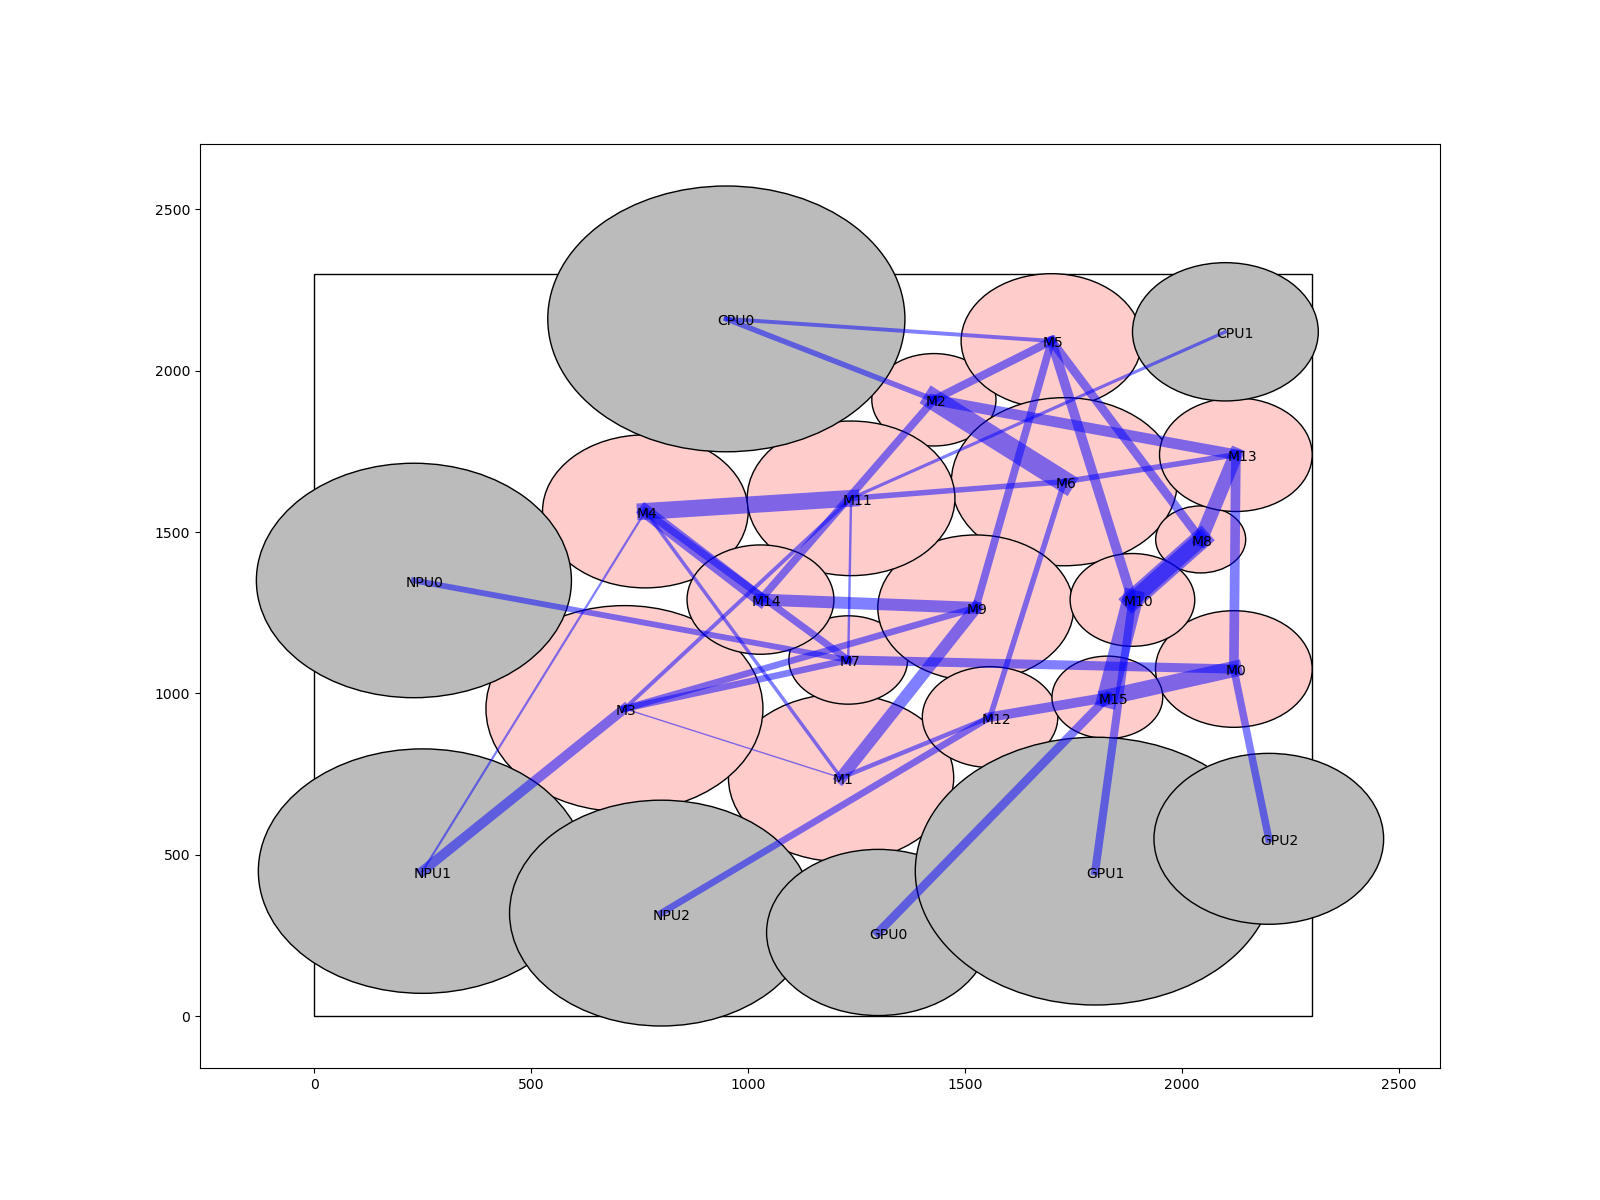
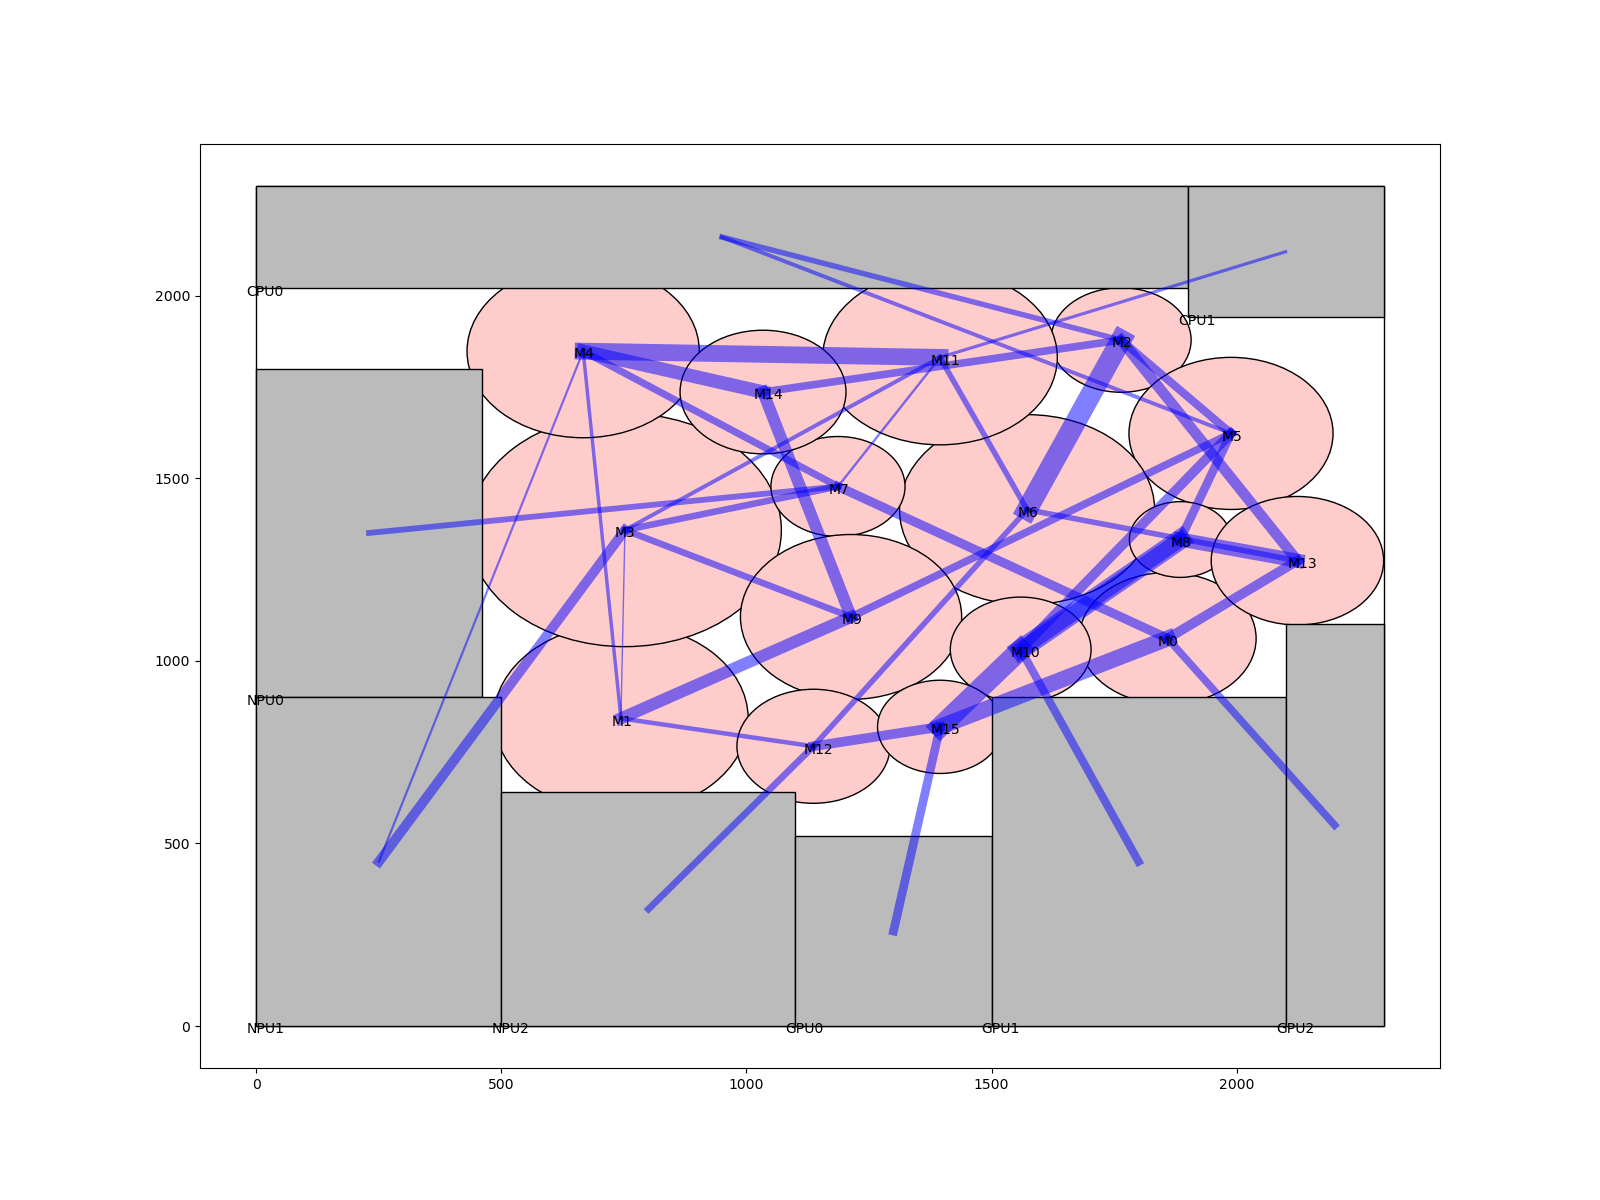
simulate fixed modules in rectangle

diff --git a/ppsolver.cpp b/ppsolver.cpp
@@ -66,9 +66,15 @@ void PPSolver::currentPosition2txt(std::string file_name) {
     ostream << DieWidth << " " << DieHeight << std::endl;
     for ( int i = 0; i < moduleNum; i++ ) {
         ostream << modules[i]->name << " ";
-        ostream << !( modules[i]->fixed ) << " ";
-        ostream << modules[i]->x << " " << modules[i]->y << " ";
-        ostream << modules[i]->radius * radiusRatio << std::endl;
+        ostream << ( ( modules[i]->fixed ) ? "FIXED" : "SOFT" ) << " ";
+        if ( modules[i]->fixed ) {
+            ostream << modules[i]->fx << " " << modules[i]->fy << " ";
+            ostream << modules[i]->fw << " " << modules[i]->fh << std::endl;
+        }
+        else {
+            ostream << modules[i]->x << " " << modules[i]->y << " ";
+            ostream << modules[i]->radius * radiusRatio << std::endl;
+        }
     }
     std::vector<PPModule*> added;
     for ( int i = 0; i < moduleNum; i++ ) {
@@ -99,6 +105,32 @@ float calcDistance(PPModule* ma, PPModule* mb) {
     return std::sqrt(std::pow(x2 - x1, 2) + std::pow(y2 - y1, 2));
 }
 
+void calcSeg2PntDist(float s1x, float s1y, float s2x, float s2y, float px, float py, float* distance, float* angle) {
+    //兩向量點乘P:p A:pt1 B:pt2 C:垂足
+    //矢量法
+    //不存在垂足C，求與A點距離
+    float APAB = ( s2x - s1x ) * ( px - s1x ) + ( s2y - s1y ) * ( py - s1y );
+    if ( APAB <= 0 ) {
+        *distance = std::sqrt(std::pow(( px - s1x ), 2) + std::pow(( py - s1y ), 2));
+        *angle = std::atan2(s1y - py, s1x - px);
+        return;
+    }
+    //不存在垂足C，求與B點距離
+    float length = std::sqrt(std::pow(( s1x - s2x ), 2) + std::pow(( s1y - s2y ), 2));
+    float AB2 = std::pow(length, 2);
+    if ( APAB >= AB2 ) {
+        *distance = std::sqrt(std::pow(( px - s2x ), 2) + std::pow(( py - s2y ), 2));
+        *angle = std::atan2(s2y - py, s2x - px);
+        return;
+    }
+    //存在垂足C 
+    float r = APAB / AB2;
+    float Cx = s1x + ( s2x - s1x ) * r;
+    float Cy = s1y + ( s2y - s1y ) * r;
+    *distance = std::sqrt(std::pow(( px - Cx ), 2) + std::pow(( py - Cy ), 2));
+    *angle = std::atan2(Cy - py, Cx - px);
+}
+
 void PPSolver::calcModuleForce() {
     PPModule* curModule;
     for ( int i = 0; i < moduleNum; i++ ) {
@@ -112,50 +144,116 @@ void PPSolver::calcModuleForce() {
         for ( int j = 0; j < curModule->connections.size(); j++ ) {
             PPModule* pullModule = curModule->connections[j]->module;
             float pullValue = curModule->connections[j]->value;
-            float x_distance = pullModule->x - curModule->x;
-            float y_distance = pullModule->y - curModule->y;
-            float angle = std::atan2(y_distance, x_distance);
-            if ( x_distance == 0 && y_distance == 0 )
-                continue;
+            float distance, x_distance, y_distance;
 
-            float curModuleRadius = curModule->radius * radiusRatio;
-            float pullModuleRadius = pullModule->radius * radiusRatio;
-            float distance = calcDistance(curModule, pullModule);
-            if ( distance <= curModuleRadius + pullModuleRadius )
-                continue;
+            if ( pullModule->fixed == true ) {
+                float fx = pullModule->fx;
+                float fy = pullModule->fy;
+                float fw = pullModule->fw;
+                float fh = pullModule->fh;
+                float d[4], a[4];
+                calcSeg2PntDist(fx, fy, fx, fy + fh, curModule->x, curModule->y, d, a);
+                calcSeg2PntDist(fx, fy + fh, fx + fw, fy + fh, curModule->x, curModule->y, d + 1, a + 1);
+                calcSeg2PntDist(fx + fw, fy, fx + fw, fy + fh, curModule->x, curModule->y, d + 2, a + 2);
+                calcSeg2PntDist(fx, fy, fx + fw, fy, curModule->x, curModule->y, d + 3, a + 3);
 
-            distance -= curModuleRadius + pullModuleRadius;
-            x_distance = distance * std::cos(angle);
-            y_distance = distance * std::sin(angle);
+                float minD = d[0], angle = a[0];
+                for ( int m = 1; m < 4; m++ )
+                    if ( d[m] < minD ) {
+                        minD = d[m];
+                        angle = a[m];
+                    }
+
+                distance = minD;
+
+                float curModuleRadius = curModule->radius * radiusRatio;
+                if ( distance <= curModuleRadius )
+                    continue;
+
+                distance -= curModuleRadius;
+                x_distance = distance * std::cos(angle);
+                y_distance = distance * std::sin(angle);
+            }
+            else {
+                x_distance = pullModule->x - curModule->x;
+                y_distance = pullModule->y - curModule->y;
+                if ( x_distance == 0 && y_distance == 0 )
+                    continue;
+
+                float angle = std::atan2(y_distance, x_distance);
+                float curModuleRadius = curModule->radius * radiusRatio;
+                float pullModuleRadius = pullModule->radius * radiusRatio;
+                float distance = calcDistance(curModule, pullModule);
+                if ( distance <= curModuleRadius + pullModuleRadius )
+                    continue;
+
+                distance -= curModuleRadius + pullModuleRadius;
+                x_distance = distance * std::cos(angle);
+                y_distance = distance * std::sin(angle);
+            }
+
             float force = distance * pullValue;
-            x_force += force * ( x_distance / distance );
-            y_force += force * ( y_distance / distance );
+            x_force += pullValue * x_distance;
+            y_force += pullValue * y_distance;
+
         }
 
         for ( int j = 0; j < moduleNum; j++ ) {
             if ( j == i )
                 continue;
             PPModule* pushModule = modules[j];
-            float x_distance = pushModule->x - curModule->x;
-            float y_distance = pushModule->y - curModule->y;
-            float angle = std::atan2(y_distance, x_distance);
-            if ( x_distance == 0 && y_distance == 0 )
-                continue;
+            float distance, x_distance, y_distance;
 
-            float curModuleRadius = curModule->radius * radiusRatio;
-            float pushModuleRadius = pushModule->radius * radiusRatio;
-            float distance = calcDistance(curModule, pushModule);
-            if ( distance >= curModuleRadius + pushModuleRadius )
-                continue;
+            if ( pushModule->fixed ) {
+                float fx = pushModule->fx;
+                float fy = pushModule->fy;
+                float fw = pushModule->fw;
+                float fh = pushModule->fh;
+                float d[4], a[4];
+                calcSeg2PntDist(fx, fy, fx, fy + fh, curModule->x, curModule->y, d, a);
+                calcSeg2PntDist(fx, fy + fh, fx + fw, fy + fh, curModule->x, curModule->y, d + 1, a + 1);
+                calcSeg2PntDist(fx + fw, fy, fx + fw, fy + fh, curModule->x, curModule->y, d + 2, a + 2);
+                calcSeg2PntDist(fx, fy, fx + fw, fy, curModule->x, curModule->y, d + 3, a + 3);
 
-            distance -= curModuleRadius + pushModuleRadius;
-            distance = -distance;
-            x_distance = distance * std::cos(angle);
-            y_distance = distance * std::sin(angle);
-            //std::cout << distance << std::endl;
+                float minD = d[0], angle = a[0];
+                for ( int m = 1; m < 4; m++ )
+                    if ( d[m] < minD ) {
+                        minD = d[m];
+                        angle = a[m];
+                    }
+
+                distance = minD;
+                float curModuleRadius = curModule->radius * radiusRatio;
+                if ( distance >= curModuleRadius )
+                    continue;
+
+                distance -= curModuleRadius;
+                distance = -distance;
+                x_distance = distance * std::cos(angle);
+                y_distance = distance * std::sin(angle);
+            }
+            else {
+                x_distance = pushModule->x - curModule->x;
+                y_distance = pushModule->y - curModule->y;
+                if ( x_distance == 0 && y_distance == 0 )
+                    continue;
+
+                float angle = std::atan2(y_distance, x_distance);
+                float curModuleRadius = curModule->radius * radiusRatio;
+                float pushModuleRadius = pushModule->radius * radiusRatio;
+                distance = calcDistance(curModule, pushModule);
+                if ( distance >= curModuleRadius + pushModuleRadius )
+                    continue;
+
+                distance -= curModuleRadius + pushModuleRadius;
+                distance = -distance;
+                x_distance = distance * std::cos(angle);
+                y_distance = distance * std::sin(angle);
+            }
+
             float force = pushForce * distance;
-            x_force -= force * ( x_distance / distance );
-            y_force -= force * ( y_distance / distance );
+            x_force -= pushForce * x_distance;
+            y_force -= pushForce * y_distance;
         }
 
         xForce[i] = x_force;

diff --git a/draw_circle_layout.py b/draw_circle_layout.py
@@ -6,12 +6,8 @@ import math
 import time
 
 
-def draw_block(ax, x, y, width, height, id):
-    if id > 0:
-        color = "#FCC"
-    else:
-        color = "#BBB"
-
+def draw_block(ax, x, y, width, height):
+    color = "#BBB"
     ax.add_patch(
         patches.Rectangle(
             (x, y),
@@ -25,12 +21,8 @@ def draw_block(ax, x, y, width, height, id):
     )
 
 
-def draw_circle(ax, x, y, radius, id):
-    if id > 0:
-        color = "#FCC"
-    else:
-        color = "#BBB"
-
+def draw_circle(ax, x, y, radius):
+    color = "#FCC"
     ax.add_patch(
         patches.Circle(
             (x, y),
@@ -80,8 +72,14 @@ name2pos = {}
 for block in range(total_block_number):
     ss = f[i].split(" ")
     plt.text(float(ss[2])-20, float(ss[3])-20, ss[0])
-    draw_circle(ax, float(ss[2]), float(ss[3]), float(ss[4]), int(ss[1]))
-    name2pos[ss[0]] = (float(ss[2]), float(ss[3]))
+    if ss[1] == "SOFT":
+        draw_circle(ax, float(ss[2]), float(ss[3]), float(ss[4]))
+        name2pos[ss[0]] = (float(ss[2]), float(ss[3]))
+    else:
+        draw_block(ax, float(ss[2]), float(ss[3]),
+                   float(ss[4]), float(ss[5]))
+        name2pos[ss[0]] = (float(ss[2])+float(ss[4])/2,
+                           float(ss[3])+float(ss[5])/2)
     i += 1
 
 j = i

diff --git a/ppmodule.cpp b/ppmodule.cpp
@@ -8,6 +8,10 @@ PPModule::PPModule(std::string in_name, float in_x, float in_y, float in_area, b
     area = in_area;
     fixed = in_fixed;
     radius = std::sqrt(area / 3.1415926);
+    fx = 0;
+    fy = 0;
+    fw = 0;
+    fh = 0;
 }
 
 PPModule::~PPModule() {
@@ -21,4 +25,11 @@ void PPModule::addConnection(PPModule* in_module, float in_value) {
     nc->module = in_module;
     nc->value = in_value;
     connections.push_back(nc);
+}
+
+void PPModule::addFixedOutline(float fx, float fy, float fw, float fh) {
+    this->fx = fx;
+    this->fy = fy;
+    this->fw = fw;
+    this->fh = fh;
 }

diff --git a/ppmodule.h b/ppmodule.h
@@ -16,10 +16,12 @@ struct PPModule {
     float x, y;
     float area, radius;
     bool fixed;
+    float fx, fy, fw, fh;
     std::vector<Connection*> connections;
     PPModule(std::string in_name, float in_x, float in_y, float in_area, bool in_fixed);
     ~PPModule();
     void addConnection(PPModule* in_module, float in_value);
+    void addFixedOutline(float fx, float fy, float fw, float fh);
 };
 
 #endif

diff --git a/main.cpp b/main.cpp
@@ -47,6 +47,7 @@ int main(int argc, char* argv[]) {
     for ( int i = 0; i < fixedModuleNum; i++ ) {
         istream >> s >> x >> y >> w >> h;
         PPModule* mod = new PPModule(s, x + w / 2., y + h / 2., (float) w * h, true);
+        mod->addFixedOutline(x, y, w, h);
         solver.addModule(mod);
         std::cout << "Reading Fixed Module " << s << "..." << std::endl;
     }
